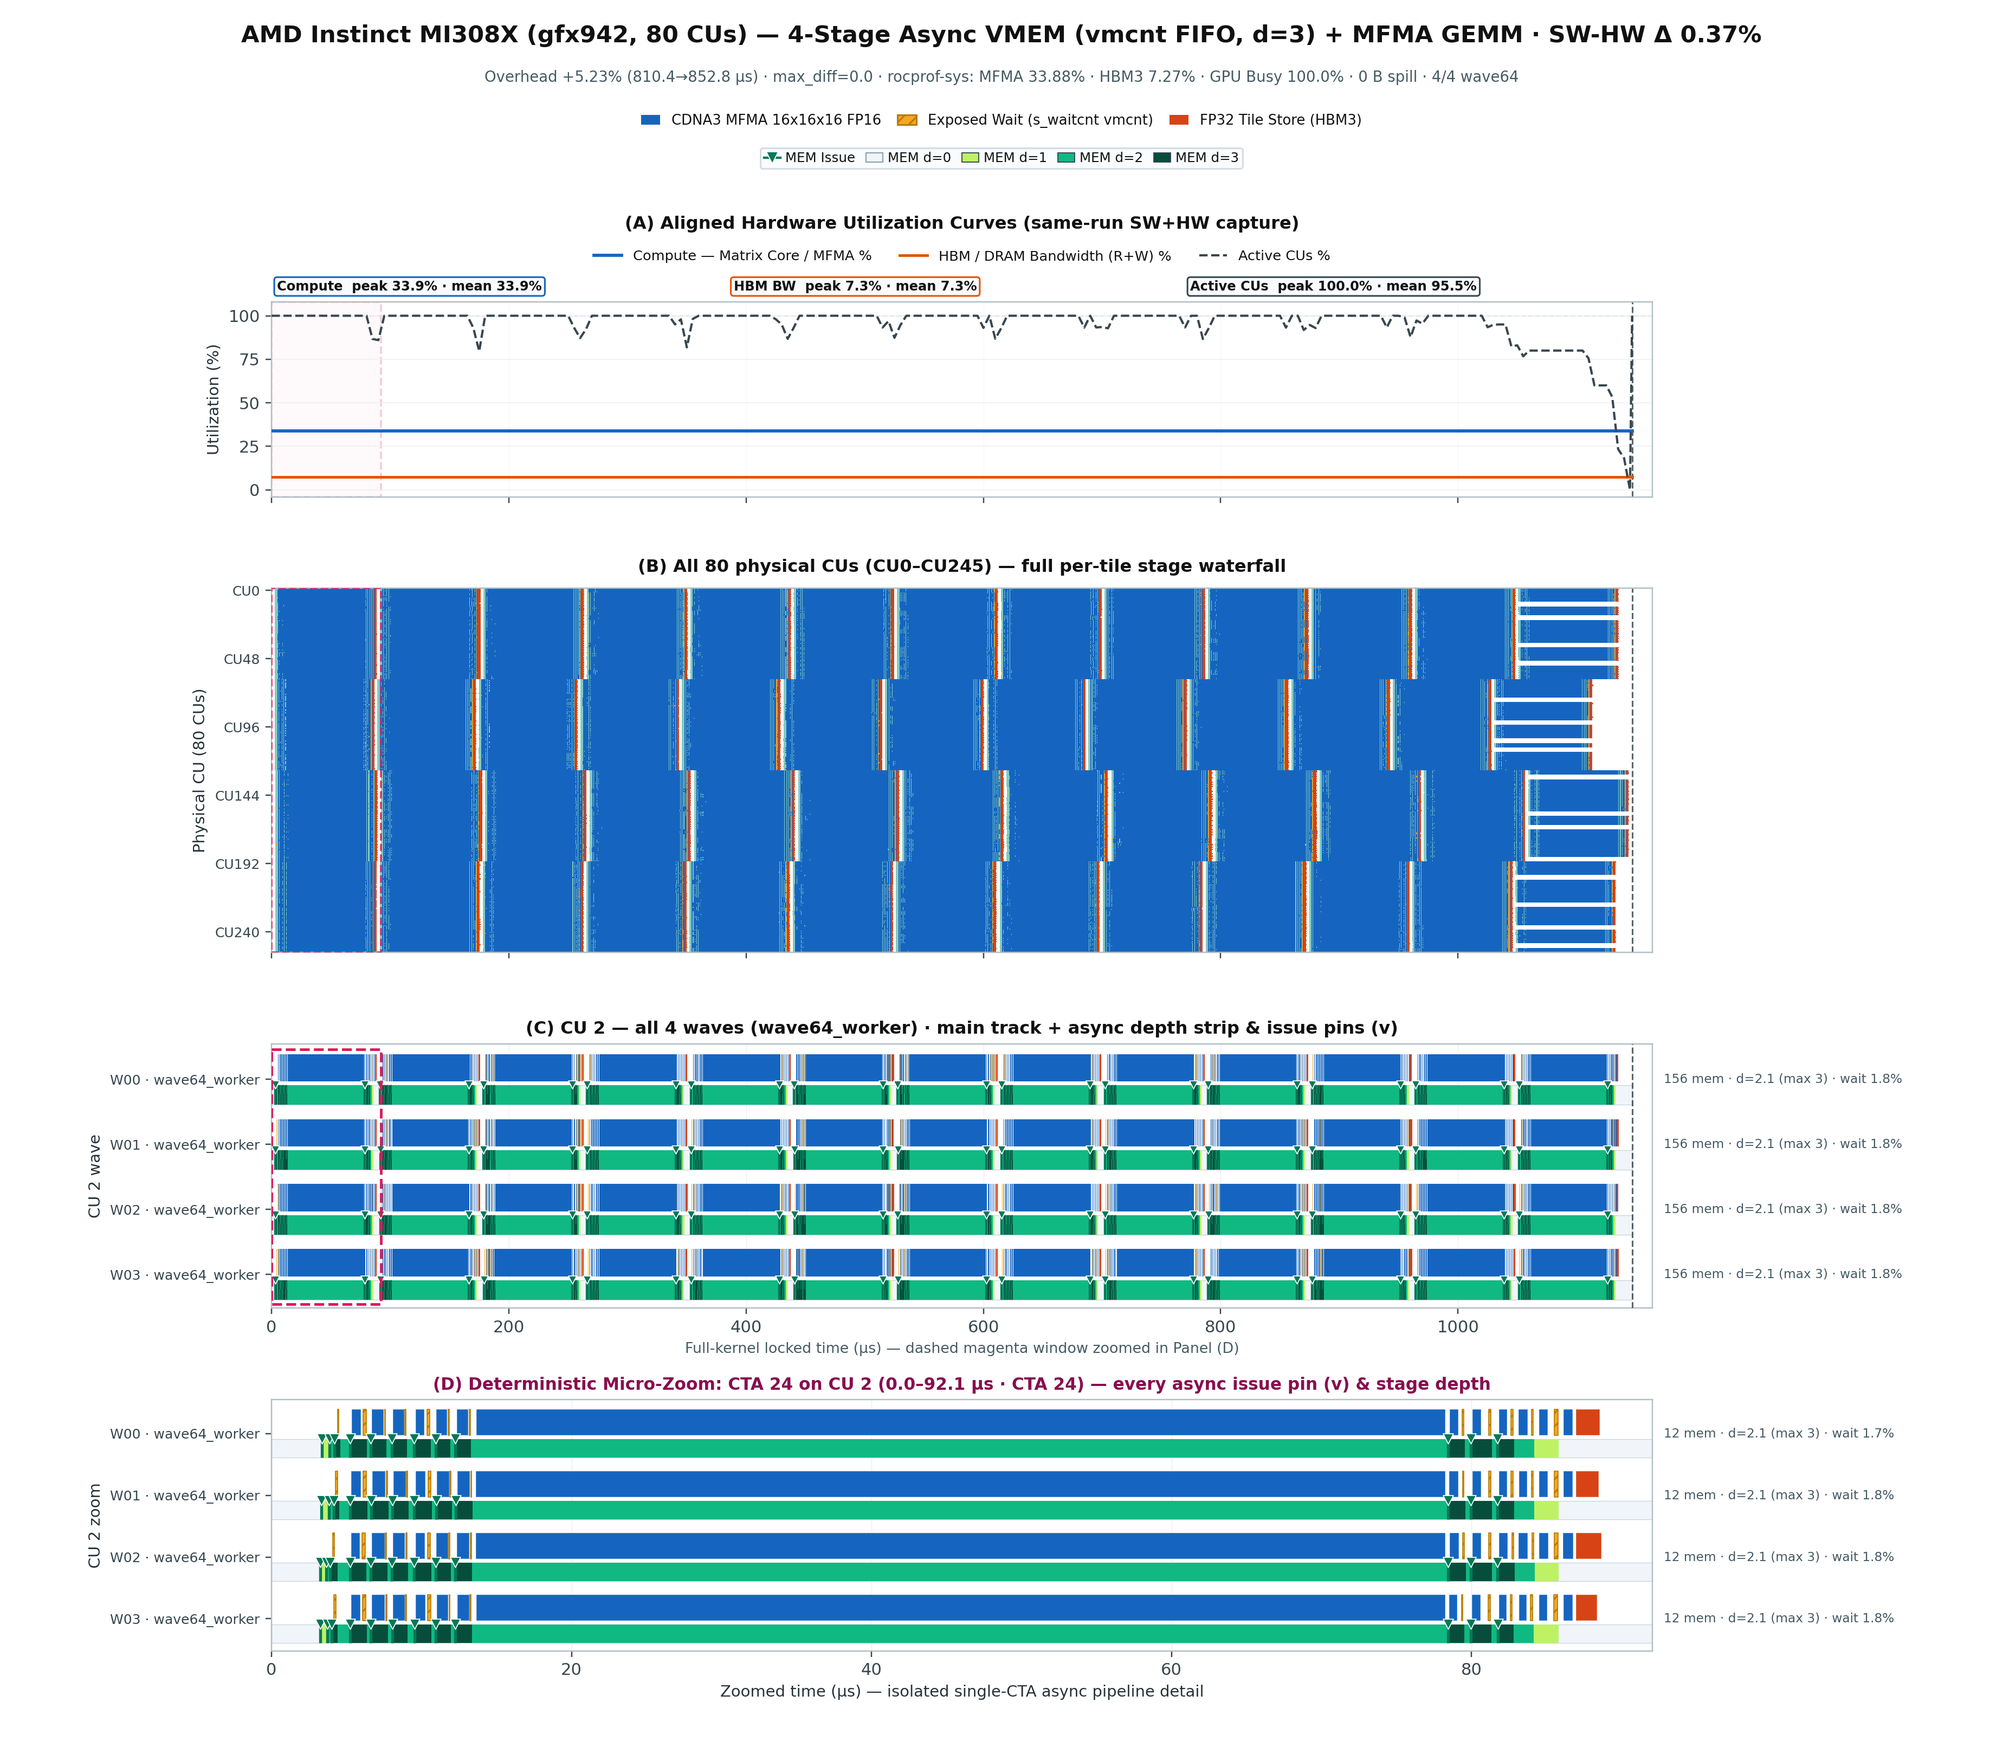
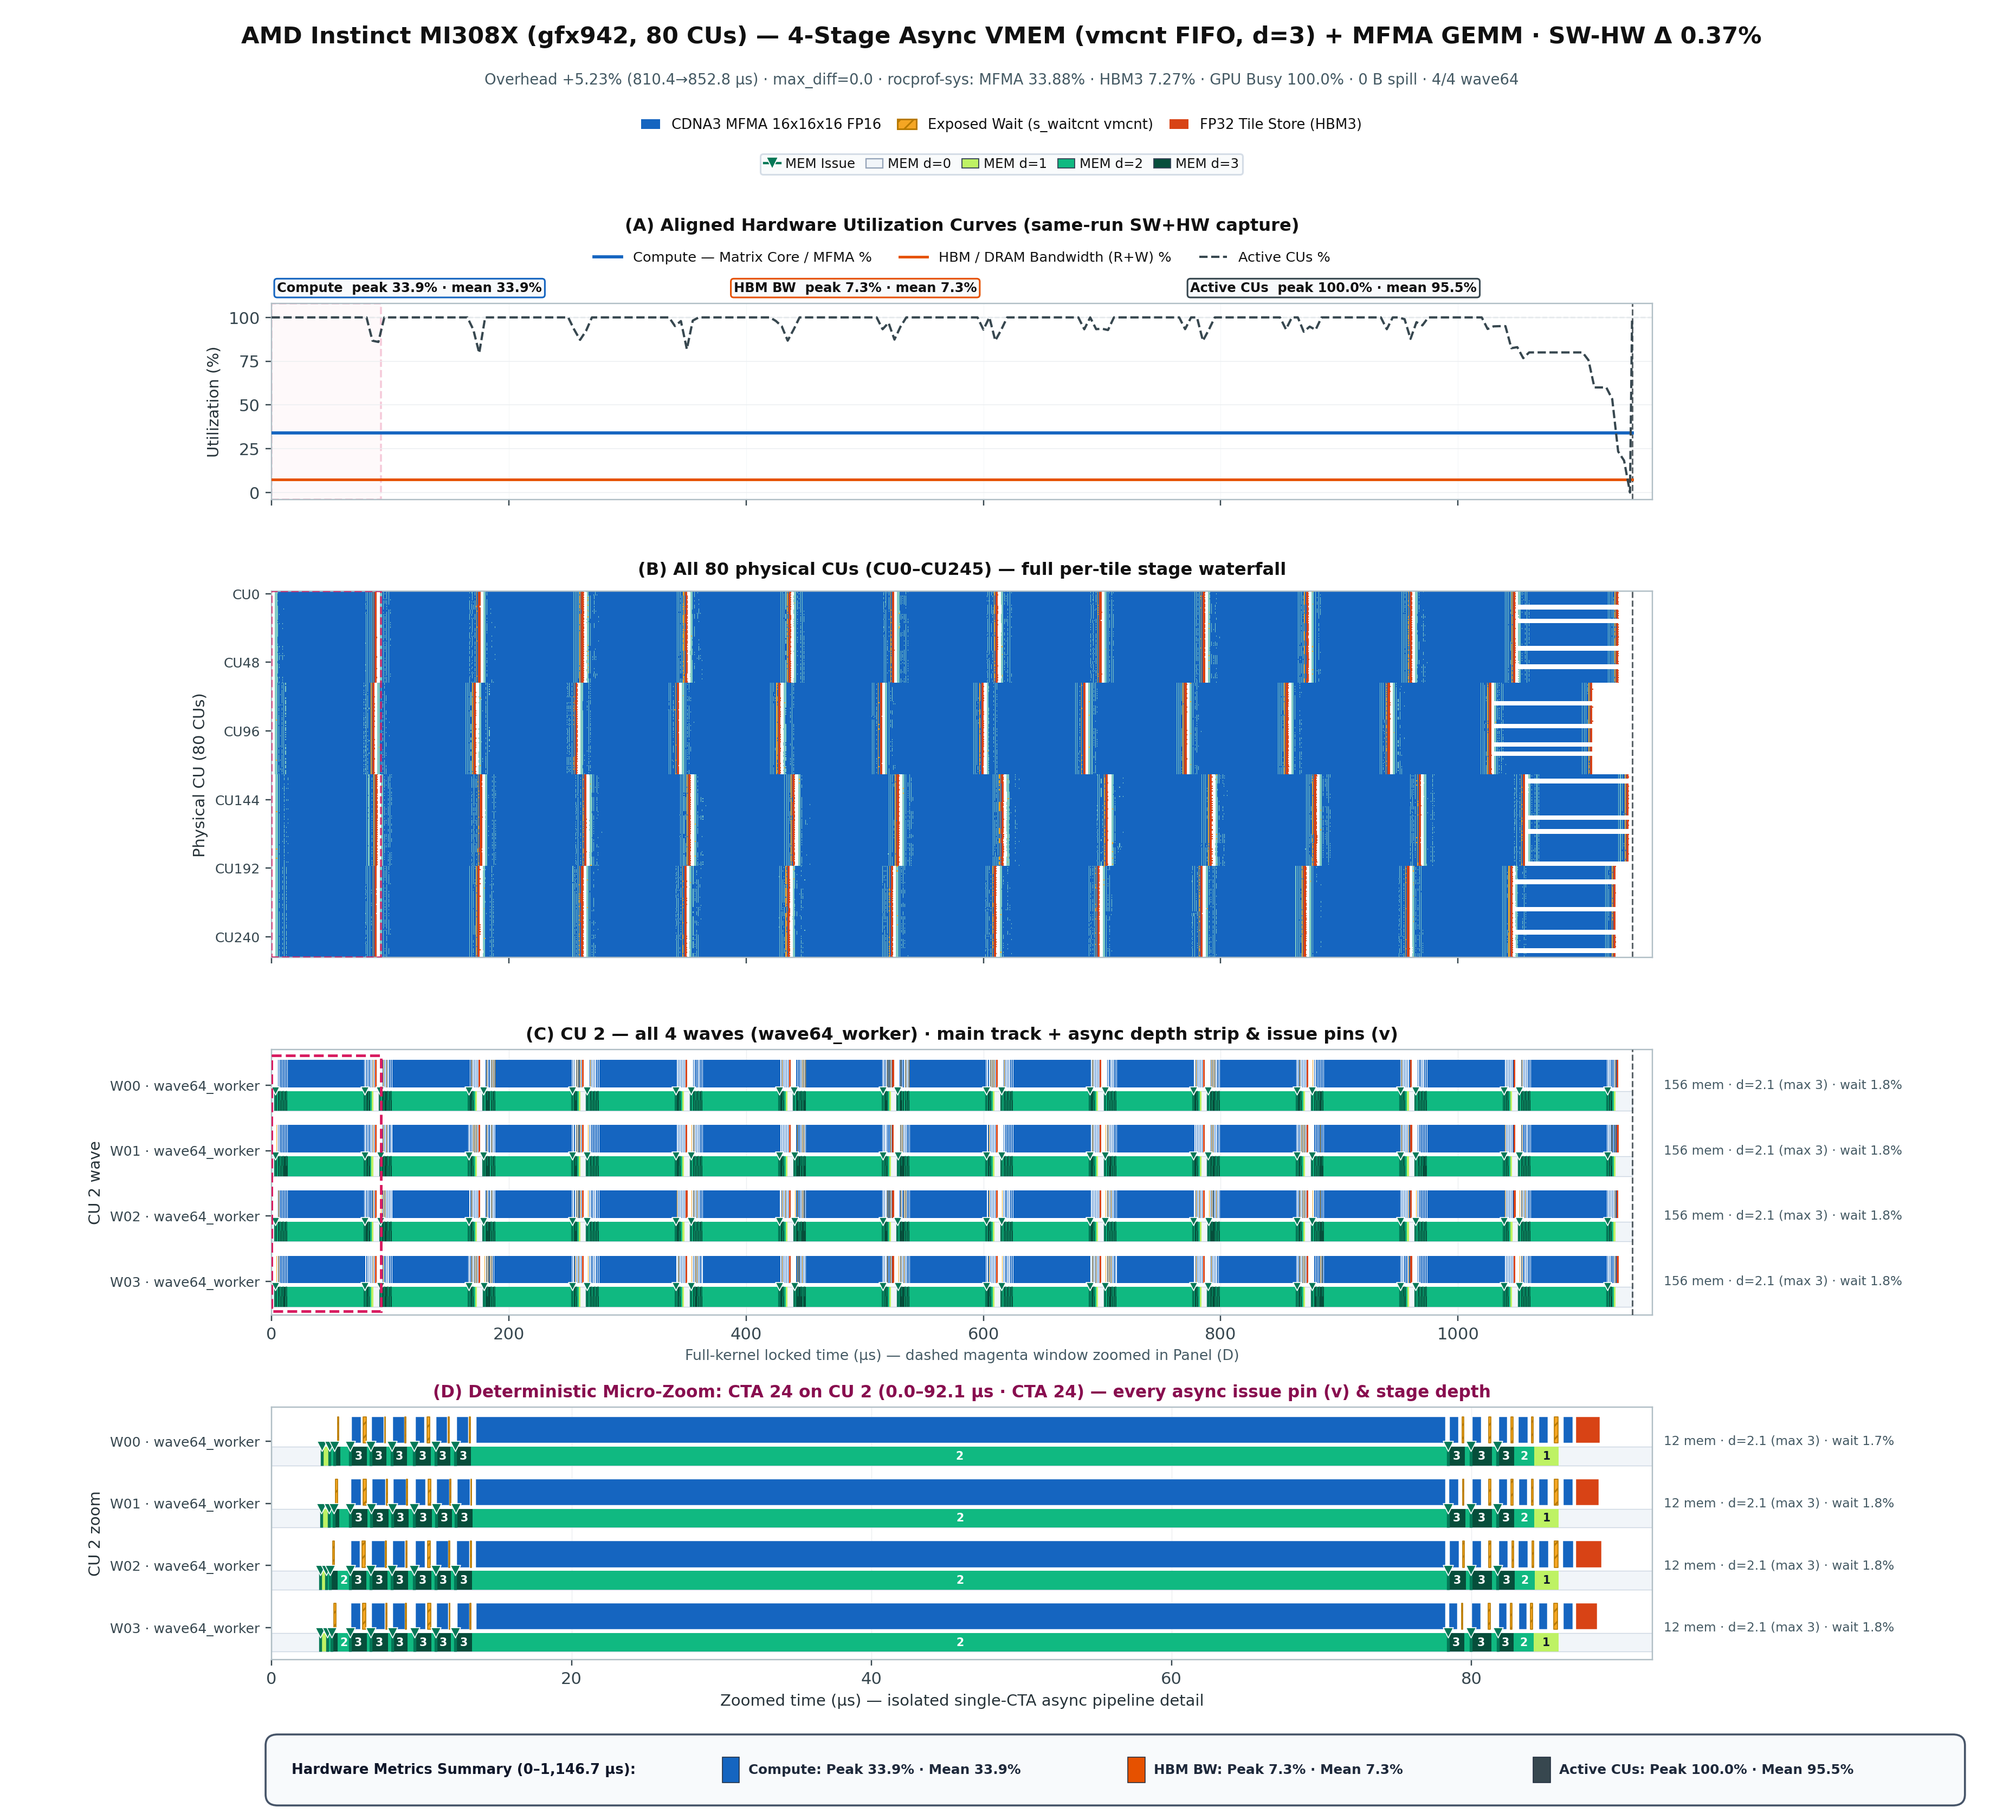
viz,recorder: add bottom HW peak/mean summary box, integer depth labels, and WP_TRANS

diff --git a/weaveprof/viz.py b/weaveprof/viz.py
@@ -963,7 +963,10 @@ def _compute_depth_segments(intervals: Sequence[Tuple[float, float]]) -> Tuple[L
     for t, delta in events:
         dt = t - prev_t
         if dt > 1e-6 and cur > 0:
-            segs.append((prev_t, t, cur))
+            if segs and segs[-1][2] == cur and abs(segs[-1][1] - prev_t) <= 1e-5:
+                segs[-1] = (segs[-1][0], t, cur)
+            else:
+                segs.append((prev_t, t, cur))
             area += dt * cur
             active_dur += dt
         cur = max(0, cur + delta)
@@ -1421,11 +1424,32 @@ def _render_warp_panel(
                     avg_d = (sum(cta_avgs) / len(cta_avgs)) if cta_avgs else 0.0
 
                 smax = eng_scale_max.get(eng, max_d)
+                sub_h = y_bot - y_top
+                min_lbl_px = 18.0 if sub_h >= 0.22 else 22.0
                 for s0, s1, d in d_segs:
                     cx0, cx1 = max(x_lo, s0), min(x_hi, s1)
                     if cx1 > cx0:
                         bucket, _bcol = _depth_to_bucket_color(eng, d, smax)
                         depth_polys[(eng, bucket)].append([(cx0, y_top), (cx1, y_top), (cx1, y_bot), (cx0, y_bot)])
+                        seg_px = ((cx1 - cx0) / x_span) * 2200.0
+                        need_px = min_lbl_px + (7.0 if d >= 10 else 0.0)
+                        if (is_zoom or len(by_cta_ivs) <= 1) and seg_px >= need_px:
+                            rr_c, gg_c, bb_c = _hex_to_rgb(_bcol)
+                            lum = 0.299 * rr_c + 0.587 * gg_c + 0.114 * bb_c
+                            t_col = "#FFFFFF" if lum < 145.0 else "#0F172A"
+                            fs_d = 6.7 if sub_h >= 0.24 else 5.8
+                            ax.text(
+                                0.5 * (cx0 + cx1),
+                                0.5 * (y_top + y_bot),
+                                str(d),
+                                ha="center",
+                                va="center",
+                                fontsize=fs_d,
+                                fontweight="bold",
+                                color=t_col,
+                                zorder=4.9,
+                                clip_on=True,
+                            )
 
                 # Prominent Fixed-Pixel ▼ Async Issue Pins (with clean Adaptive LOD so emerald depth strip stays crisp!)
                 ts_all = dedup_issues.get((r, eng), [])
@@ -1683,7 +1707,8 @@ def render_swhw_overview_png(
     panel_d_h = max(2.15, min(4.2, row_h_unit * n_rep_rows + 0.90)) if has_zoom else 0.0
     panel_b_h = max(2.9, min(4.2, 0.036 * n_sms + 1.45))
     panel_a_h = 2.25 if has_hw else 0.0
-    fig_h = 2.25 + panel_a_h + panel_b_h + panel_c_h + panel_d_h
+    footer_hw_h = 0.62 if has_hw else 0.0
+    fig_h = 2.25 + panel_a_h + panel_b_h + panel_c_h + panel_d_h + footer_hw_h
     fig_w = 16.8 if has_async_rep else 16.0
 
     plt.rcParams.update({
@@ -1905,6 +1930,7 @@ def render_swhw_overview_png(
     x_lim = (0.0, t_max + x_pad)
 
     # ---- Panel (A): real same-run hardware utilization curves ----
+    hw_summary_items: List[Tuple[str, str, float, float]] = []
     if ax_hw is not None:
         ax_hw.set_facecolor("#FFFFFF")
         ax_hw.grid(True, axis="y", linestyle="-", linewidth=0.5, color="#ECEFF1", zorder=0)
@@ -1965,6 +1991,7 @@ def render_swhw_overview_png(
             peak_v = max(in_w)
             hw_max_val = max(hw_max_val, peak_v)
             chips.append((f"{short}  peak {peak_v:.1f}% · mean {mean_v:.1f}%", color))
+            hw_summary_items.append((short, color, peak_v, mean_v))
 
         y_top = 108.0 if hw_max_val <= 100.0 else max(108.0, hw_max_val * 1.08)
         ax_hw.set_ylim(-4, y_top)
@@ -2208,7 +2235,48 @@ def render_swhw_overview_png(
         top_m = min(0.862, 1.0 - 2.15 / fig_h) - extra_leg if has_hw else min(0.870, 1.0 - 1.85 / fig_h) - extra_leg
     else:
         top_m = 0.855 if (has_hw and dual_fabric) else (min(0.805, 1.0 - 2.15 / fig_h) - extra_leg if has_hw else 0.835)
-    fig.subplots_adjust(left=left_m, right=right_m, top=top_m, bottom=0.055 if has_zoom else 0.065)
+    bottom_m = (0.088 if has_zoom else 0.104) if hw_summary_items else (0.055 if has_zoom else 0.065)
+    fig.subplots_adjust(left=left_m, right=right_m, top=top_m, bottom=bottom_m)
+
+    # ---- Bottom Hardware Metrics Summary Box (Peak & Mean for every hardware metric) ----
+    if hw_summary_items:
+        from matplotlib.patches import FancyBboxPatch
+        box_x0 = left_m
+        box_x1 = 0.978
+        box_w = max(0.20, box_x1 - box_x0)
+        box_y0 = 0.011
+        box_h = 0.033 if has_zoom else 0.041
+        box_yc = box_y0 + 0.5 * box_h
+        fig.patches.append(FancyBboxPatch(
+            (box_x0, box_y0), box_w, box_h,
+            boxstyle="round,pad=0.003,rounding_size=0.006",
+            transform=fig.transFigure,
+            facecolor="#F8FAFC", edgecolor="#475569", linewidth=1.2, zorder=10,
+        ))
+        hdr_txt = f"Hardware Metrics Summary (0–{k_dur:,.1f} µs):"
+        hdr_x = box_x0 + 0.010
+        fig.text(
+            hdr_x, box_yc, hdr_txt,
+            ha="left", va="center", fontsize=8.5, fontweight="bold", color="#0F172A", zorder=11,
+        )
+        items_x0 = hdr_x + (0.195 if len(hdr_txt) <= 38 else 0.215)
+        avail_w = max(0.10, (box_x1 - 0.010) - items_x0)
+        n_hw_it = len(hw_summary_items)
+        slot_w = avail_w / max(1, n_hw_it)
+        sw_h = box_h * 0.42
+        sw_w = 0.0085
+        fs_hw = 8.1 if n_hw_it <= 4 else 7.4
+        for idx_h, (m_short, m_col, m_peak, m_mean) in enumerate(hw_summary_items):
+            ix = items_x0 + idx_h * slot_w
+            fig.patches.append(Rectangle(
+                (ix, box_yc - 0.5 * sw_h), sw_w, sw_h,
+                transform=fig.transFigure, facecolor=m_col, edgecolor="#1E293B", linewidth=0.5, zorder=11,
+            ))
+            fig.text(
+                ix + sw_w + 0.0045, box_yc,
+                f"{m_short}: Peak {m_peak:.1f}% · Mean {m_mean:.1f}%",
+                ha="left", va="center", fontsize=fs_hw, fontweight="bold", color="#1E293B", zorder=11,
+            )
 
     out_path = Path(out_png)
     out_path.parent.mkdir(parents=True, exist_ok=True)
